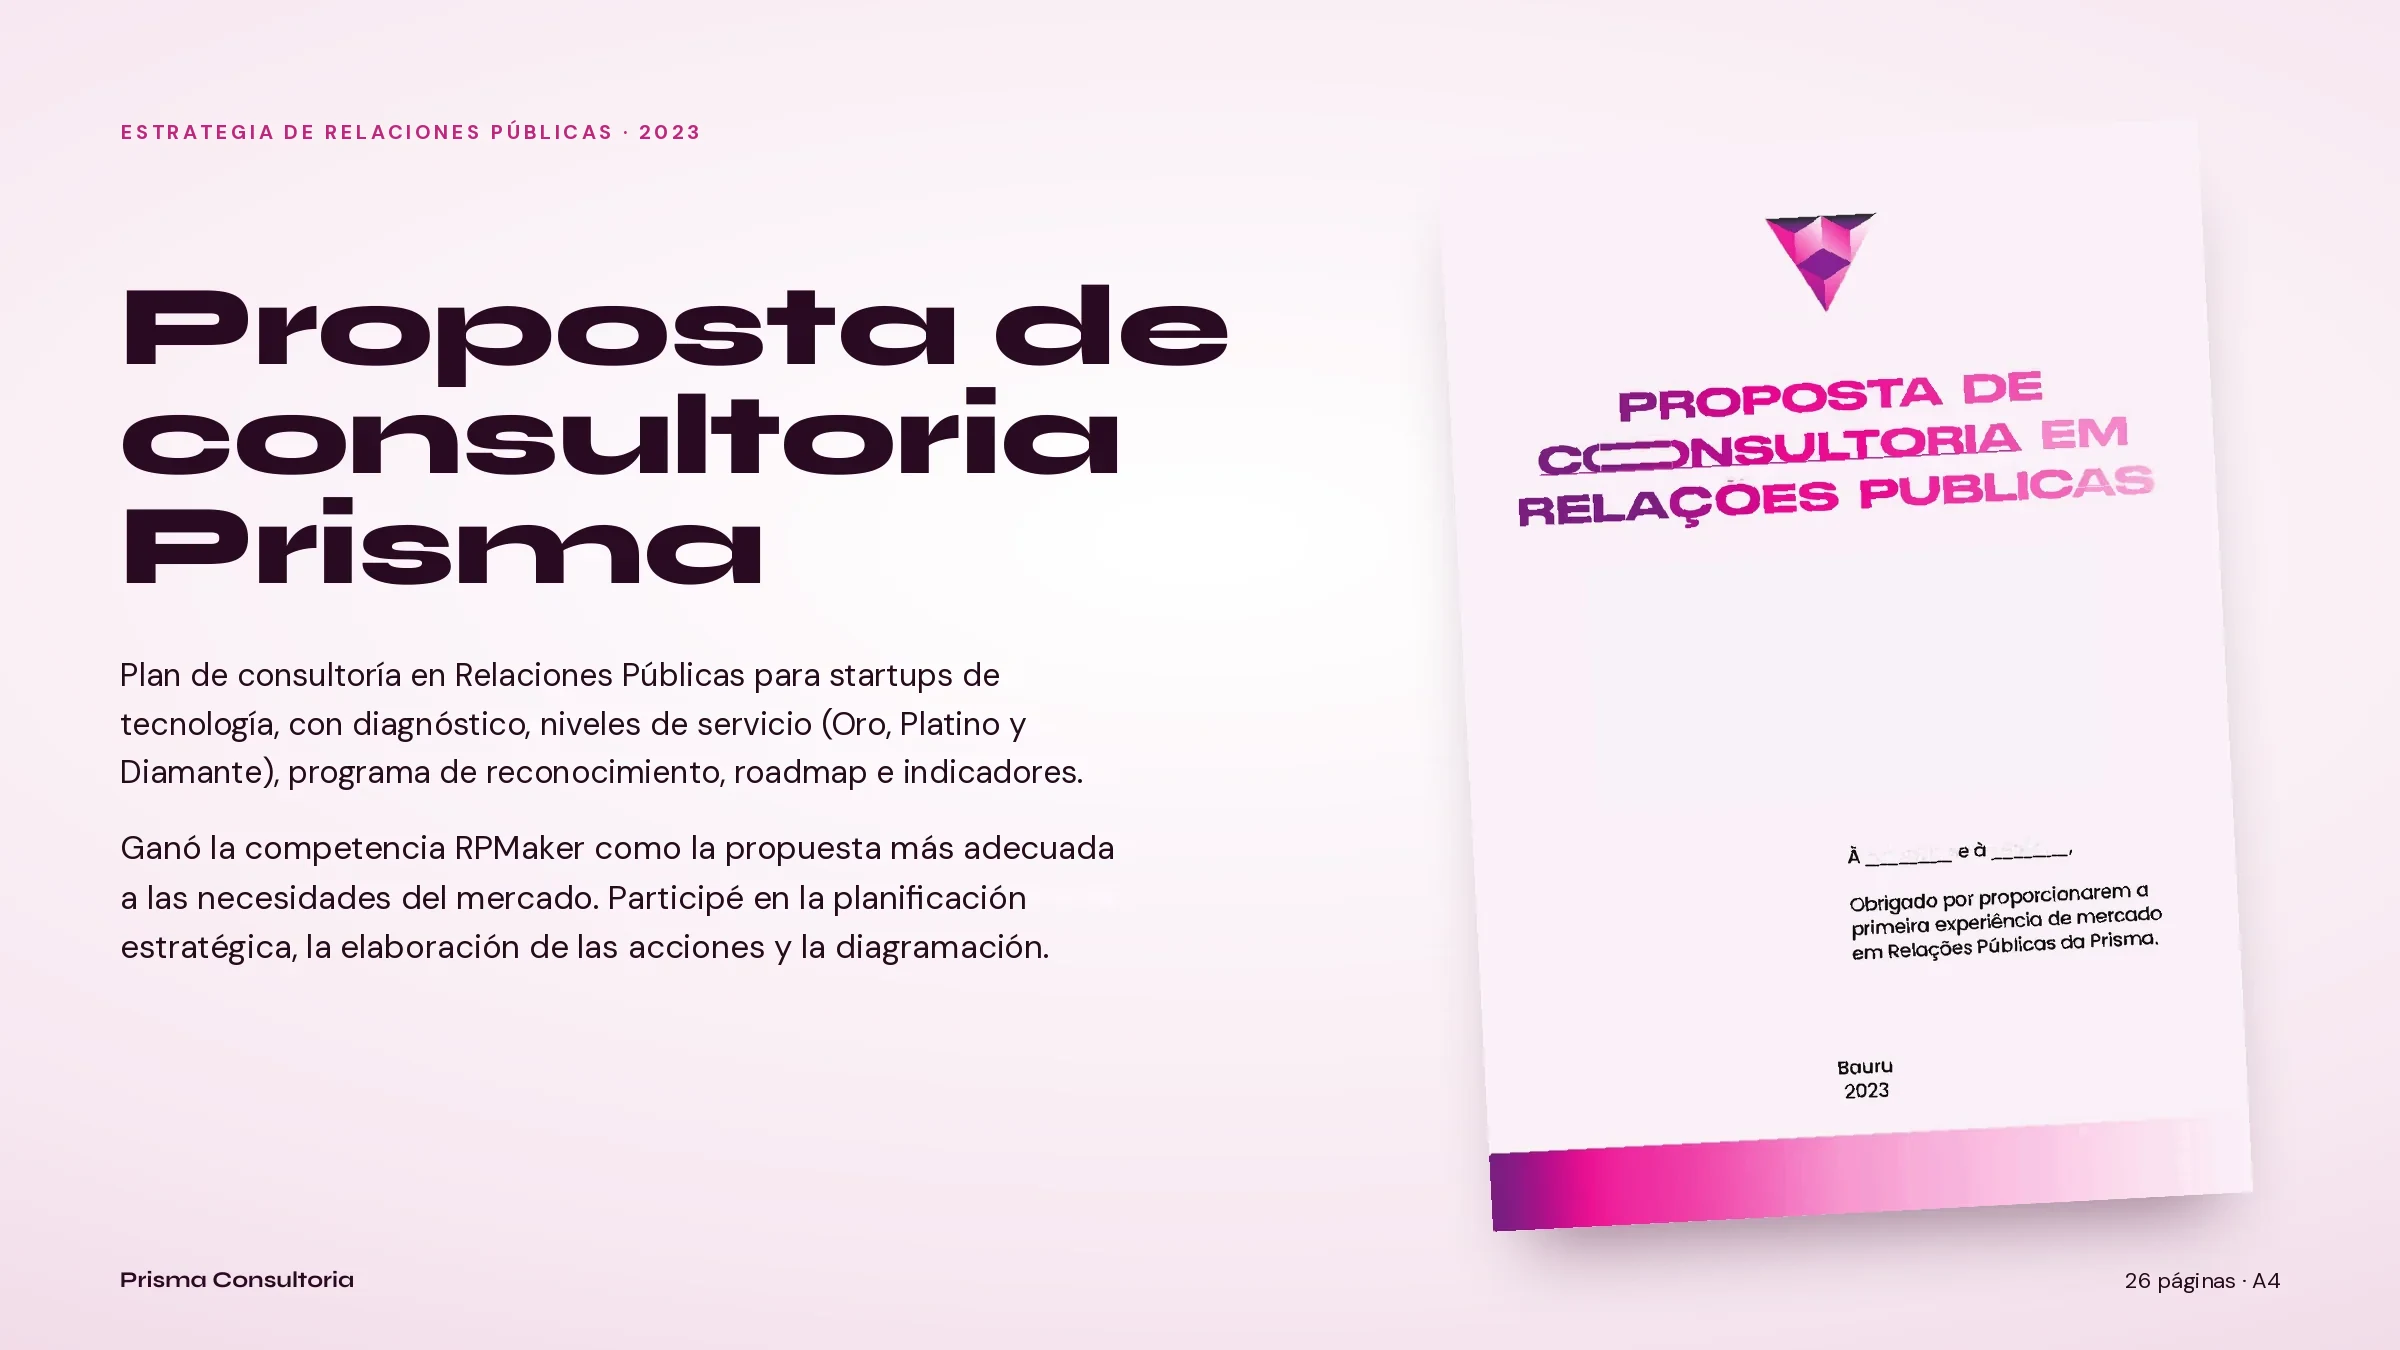
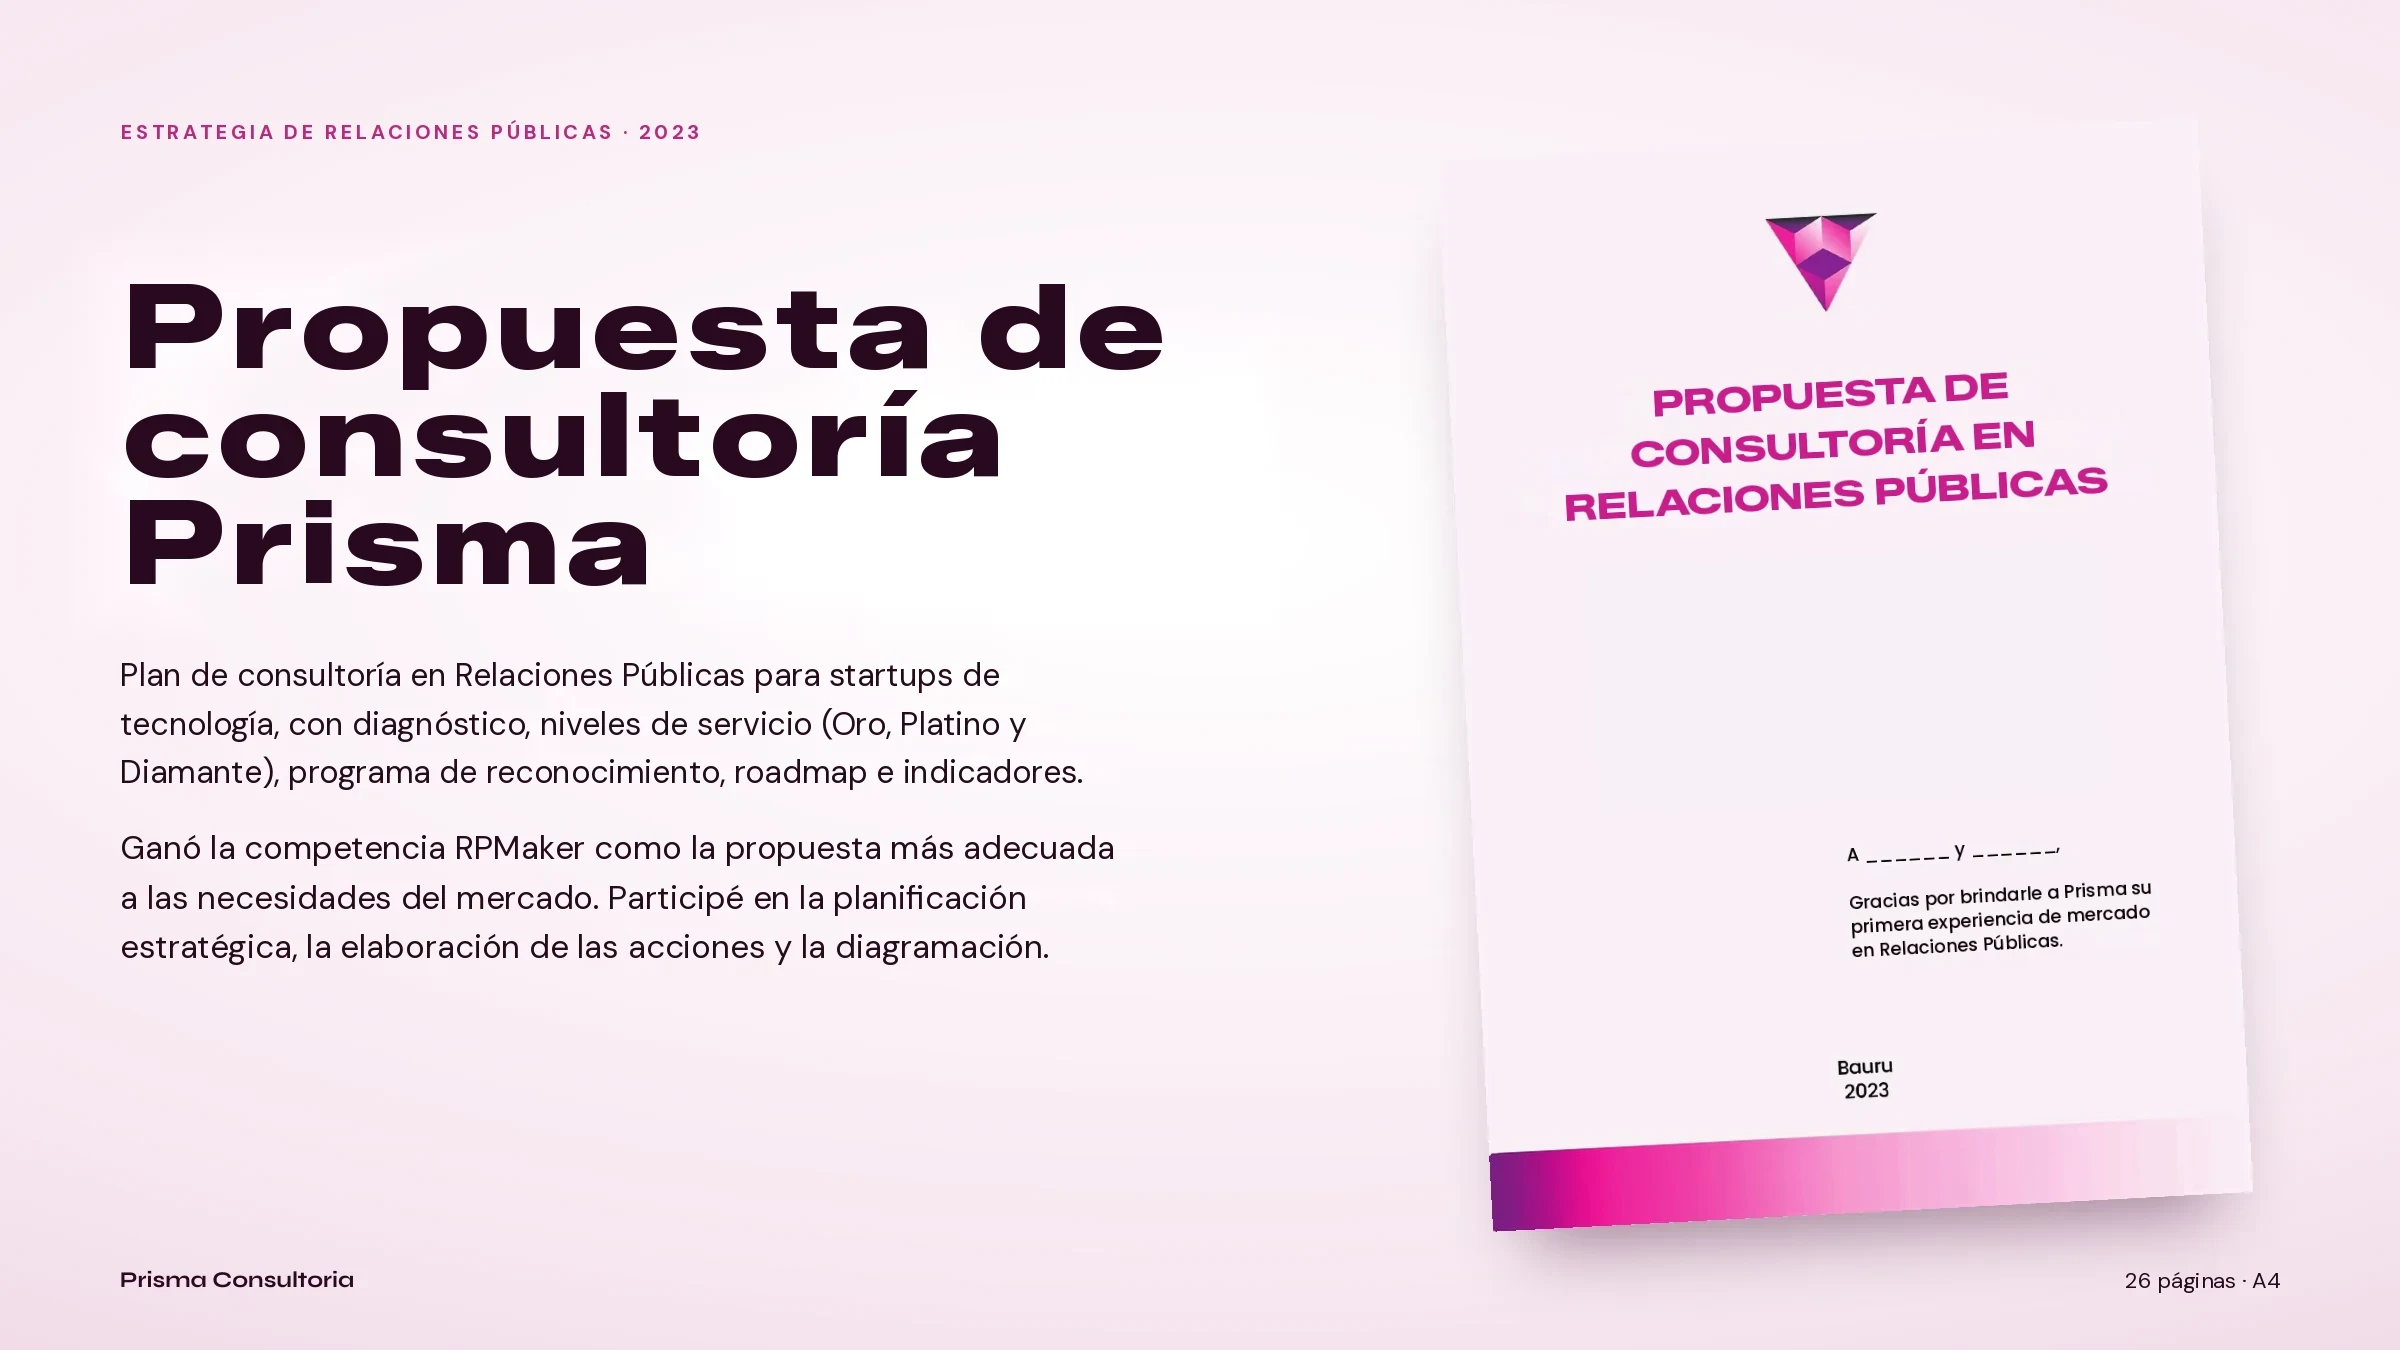
Projetos: Proposta Prisma inteira em EN/ES (capa e mockup inclusos)
Claude-Session: https://claude.ai/code/session_01XL5C8DSce4vFQqoSKyW9us

Changed region(s): [[0.0625, 0.1867, 0.5312, 0.4356], [0.625, 0.2489, 0.9062, 0.4044], [0.75, 0.6222, 0.9062, 0.7156]]

diff --git a/assets/data/projetos.js b/assets/data/projetos.js
@@ -8076,7 +8076,11 @@ window.PROJETOS = [
      "pt": "",
      "en": "",
      "es": ""
-    }
+    },
+    "idiomasImg": [
+     "en",
+     "es"
+    ]
    },
    {
     "img": "03",
@@ -8089,7 +8093,11 @@ window.PROJETOS = [
      "pt": "",
      "en": "",
      "es": ""
-    }
+    },
+    "idiomasImg": [
+     "en",
+     "es"
+    ]
    },
    {
     "img": "04",
@@ -8102,7 +8110,11 @@ window.PROJETOS = [
      "pt": "",
      "en": "",
      "es": ""
-    }
+    },
+    "idiomasImg": [
+     "en",
+     "es"
+    ]
    },
    {
     "img": "05",
@@ -8115,7 +8127,11 @@ window.PROJETOS = [
      "pt": "",
      "en": "",
      "es": ""
-    }
+    },
+    "idiomasImg": [
+     "en",
+     "es"
+    ]
    },
    {
     "img": "06",
@@ -8128,7 +8144,11 @@ window.PROJETOS = [
      "pt": "",
      "en": "",
      "es": ""
-    }
+    },
+    "idiomasImg": [
+     "en",
+     "es"
+    ]
    },
    {
     "img": "07",
@@ -8141,7 +8161,11 @@ window.PROJETOS = [
      "pt": "",
      "en": "",
      "es": ""
-    }
+    },
+    "idiomasImg": [
+     "en",
+     "es"
+    ]
    },
    {
     "img": "08",
@@ -8154,7 +8178,11 @@ window.PROJETOS = [
      "pt": "",
      "en": "",
      "es": ""
-    }
+    },
+    "idiomasImg": [
+     "en",
+     "es"
+    ]
    },
    {
     "img": "09",
@@ -8167,7 +8195,11 @@ window.PROJETOS = [
      "pt": "",
      "en": "",
      "es": ""
-    }
+    },
+    "idiomasImg": [
+     "en",
+     "es"
+    ]
    },
    {
     "img": "10",
@@ -8180,7 +8212,11 @@ window.PROJETOS = [
      "pt": "",
      "en": "",
      "es": ""
-    }
+    },
+    "idiomasImg": [
+     "en",
+     "es"
+    ]
    },
    {
     "img": "11",
@@ -8193,7 +8229,11 @@ window.PROJETOS = [
      "pt": "",
      "en": "",
      "es": ""
-    }
+    },
+    "idiomasImg": [
+     "en",
+     "es"
+    ]
    },
    {
     "img": "12",
@@ -8206,7 +8246,11 @@ window.PROJETOS = [
      "pt": "",
      "en": "",
      "es": ""
-    }
+    },
+    "idiomasImg": [
+     "en",
+     "es"
+    ]
    },
    {
     "img": "13",
@@ -8219,7 +8263,11 @@ window.PROJETOS = [
      "pt": "",
      "en": "",
      "es": ""
-    }
+    },
+    "idiomasImg": [
+     "en",
+     "es"
+    ]
    },
    {
     "img": "14",
@@ -8232,7 +8280,11 @@ window.PROJETOS = [
      "pt": "",
      "en": "",
      "es": ""
-    }
+    },
+    "idiomasImg": [
+     "en",
+     "es"
+    ]
    },
    {
     "img": "15",
